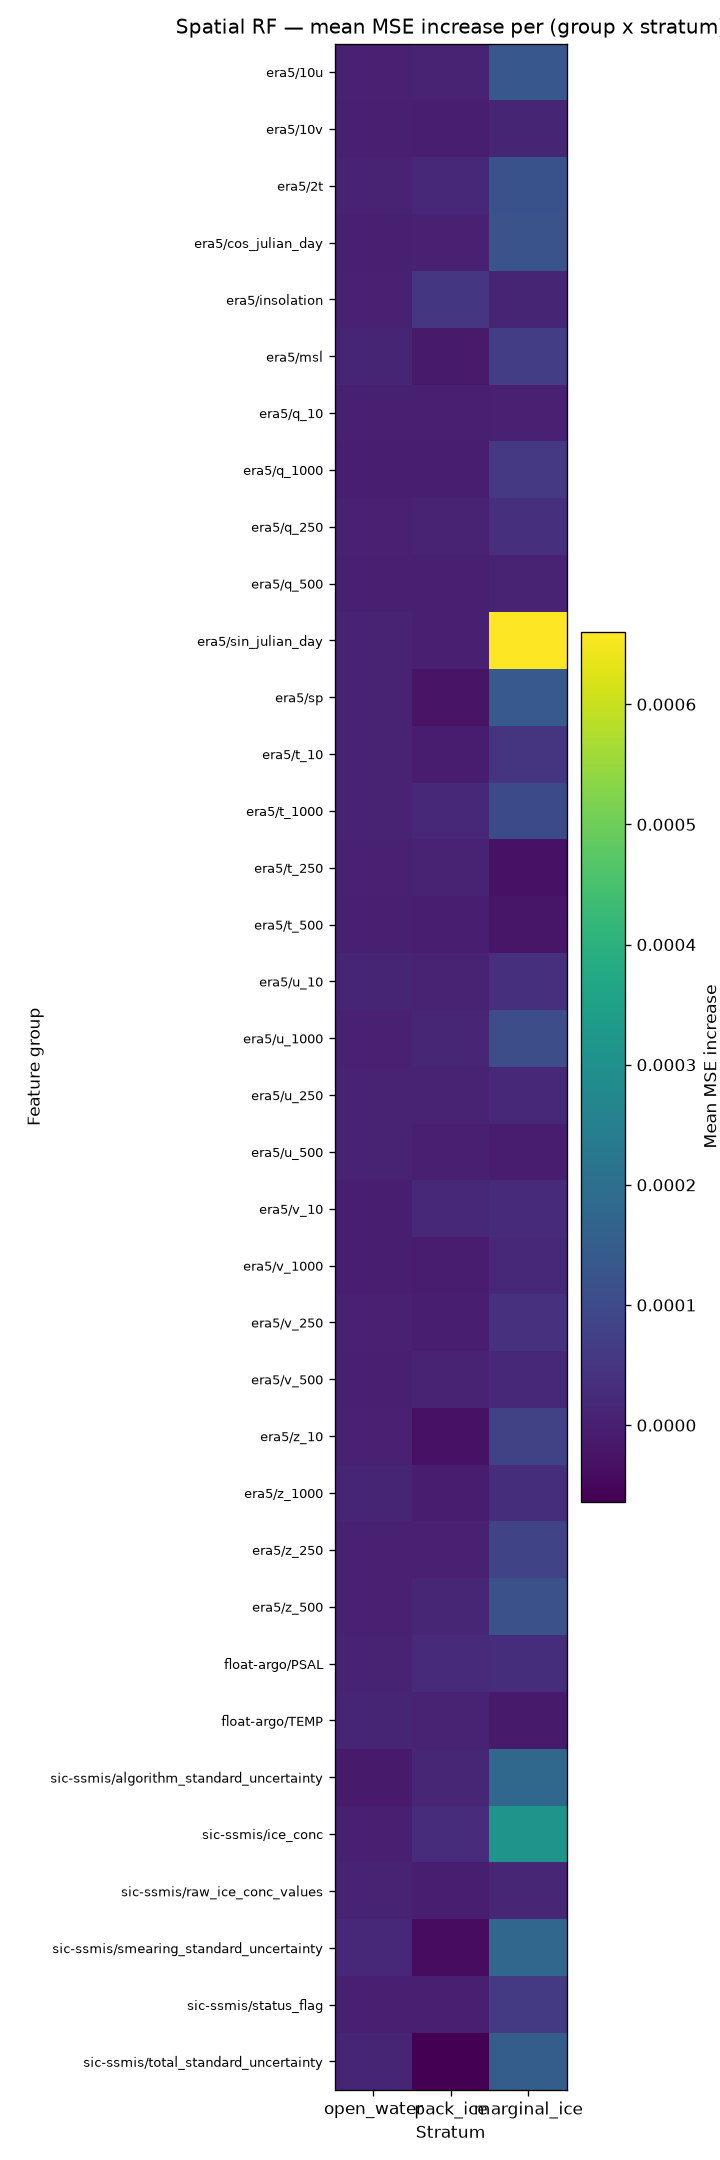
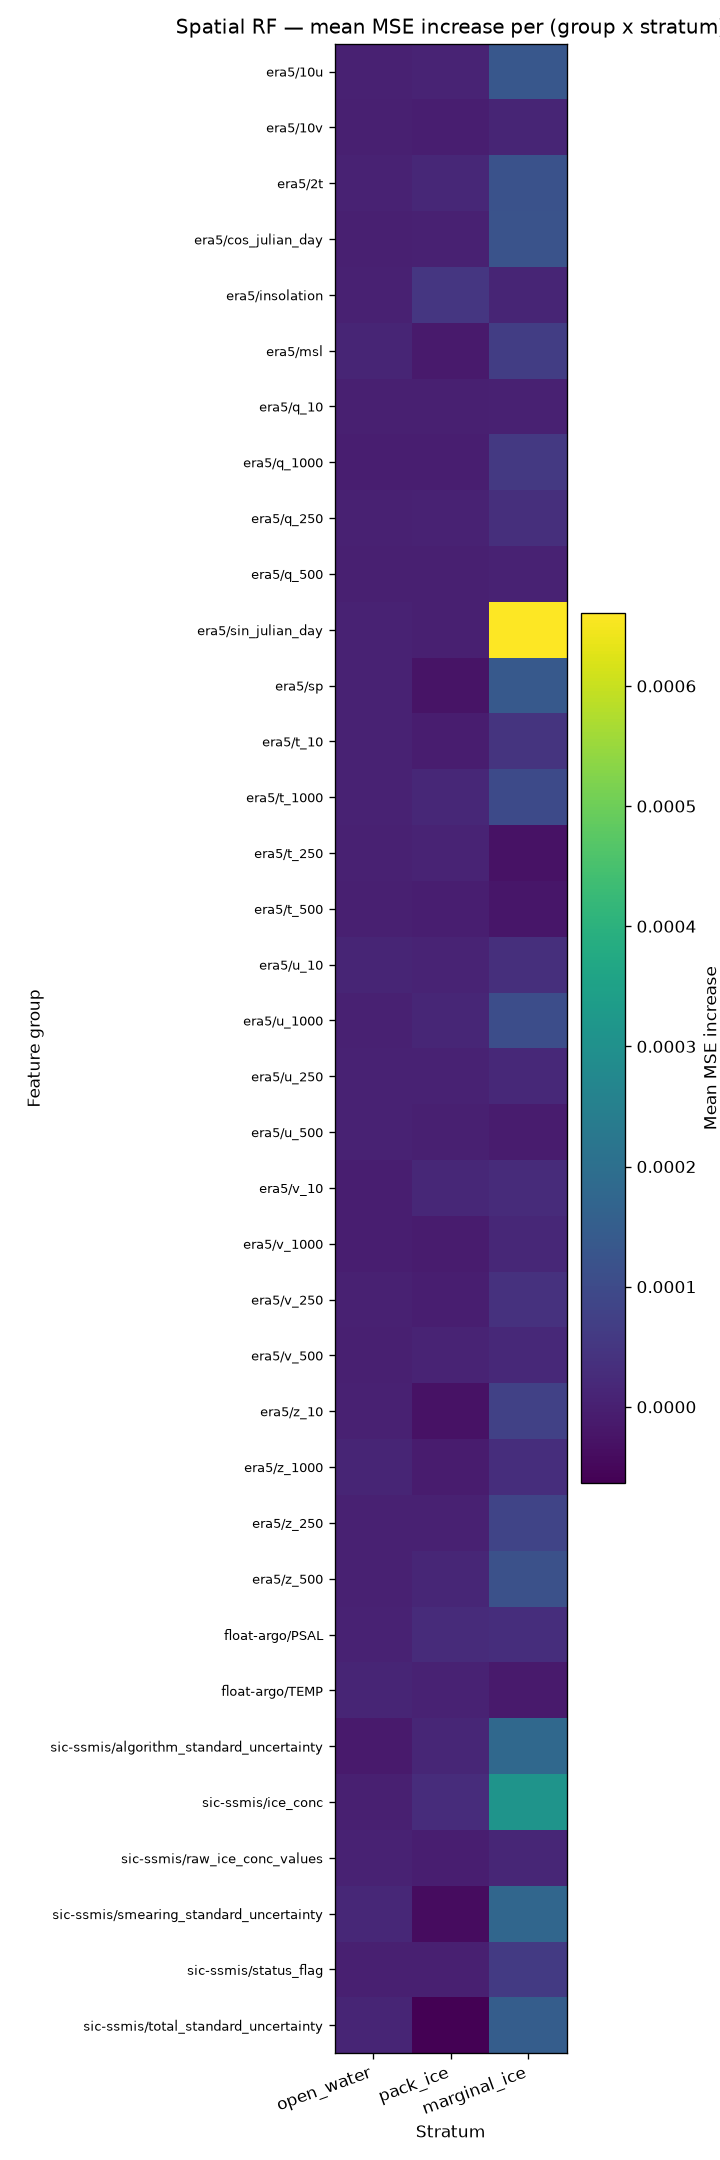
Fix overlapping x-axis labels on stratum importance plot
Rotate the stratum tick labels so open_water/pack_ice/marginal_ice no
longer run into each other on the narrow x-axis, and regenerate the
demo doc's figure from the existing run output.

diff --git a/icenet_mp/visualisations/spatial_rf_plots.py b/icenet_mp/visualisations/spatial_rf_plots.py
@@ -329,7 +329,7 @@ def plot_stratum_importance(
     )
     im = ax.imshow(matrix, aspect="auto", cmap="viridis")
     ax.set_xticks(range(len(_STRATA)))
-    ax.set_xticklabels(list(_STRATA))
+    ax.set_xticklabels(list(_STRATA), rotation=20, ha="right")
     ax.set_yticks(range(len(groups)))
     ax.set_yticklabels(groups, fontsize=8)
     ax.set_xlabel("Stratum")
